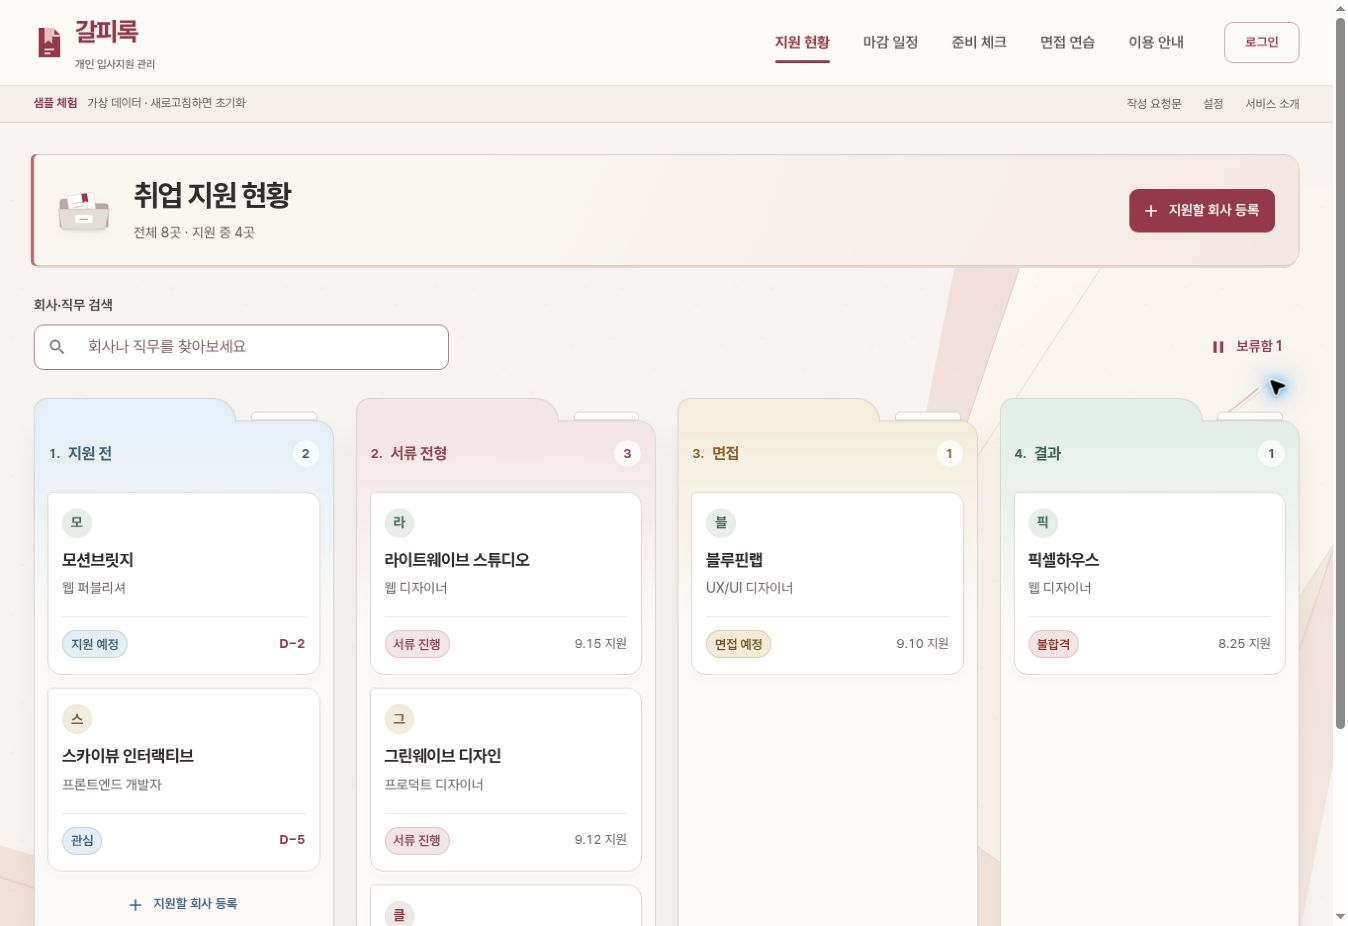
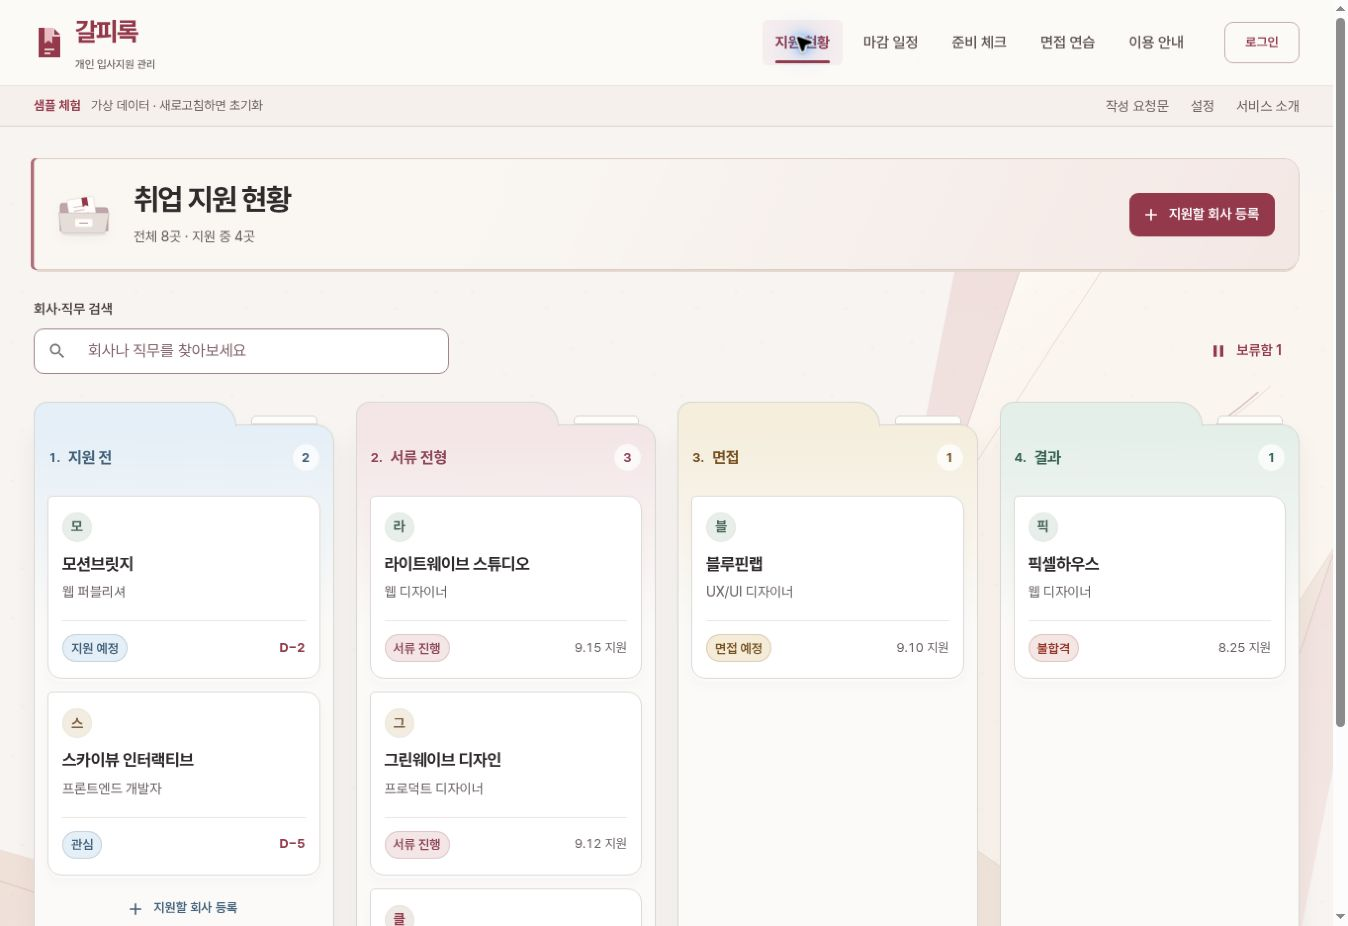
Refresh Galpirok portfolio captures after visual polish

diff --git a/projects/jobflow-dashboard/README.md b/projects/jobflow-dashboard/README.md
@@ -7,7 +7,9 @@
 - 크랜베리·종이색과 기존 시각 자산을 유지합니다. 보조 메뉴 14px, 달력 회사명 13px·건수 12px로 조정하고 면접 분류 글자를 기존 면접 상태 배지와 같은 짙은 앰버로 맞춥니다.
 - PC 오늘 화면의 마감 배너·날짜 티켓과 목록 행 여백을 줄여 실제 기록이 보이는 범위를 넓힙니다. 장식과 대표 비주얼은 유지합니다.
 - 준비 체크의 분류 선택 칸을 148px로 넓히고 미등록 분류는 ‘등록 없음’으로 표시합니다. 모바일에는 분류명·건수의 위아래 배치, 좁은 폭의 두 열 필터 및 별도 추가 버튼 행을 적용합니다.
-- 코드 lint 오류 0(기존 Fast Refresh 경고 1), production build 성공(기존 큰 번들 경고). 배포 화면 검증 결과는 확인 후 기록하며 실제 인증·DB 저장·모바일 뷰포트 검증과 구분합니다.
+- 코드 lint 오류 0(기존 Fast Refresh 경고 1), production build 성공(기존 큰 번들 경고). 고정 텍스트/배경 11쌍의 계산 대비는 5.31:1~8.08:1이며 전체 접근성 인증은 아닙니다. 면접 분류는 4.60:1에서 5.91:1로 개선했습니다.
+- `17420d1` 공개 배포를 Chrome CSS viewport 1363×936에서 확인했습니다. 오늘 배너의 실제 높이 약 324→288px, 목록 행 80px, 지원 회사·준비 각 3항목의 첫 화면 노출, 보조 메뉴 14px, 달력 회사명 13px·건수 12px, 분류 선택 칸 148px와 ‘포트폴리오’ 전체 표시를 확인했습니다. 미등록 분류에 임시 할 일을 등록해 ‘등록 없음’→‘0 / 1’ 전환을 확인하고 삭제 조작·새로고침으로 샘플을 복원했습니다.
+- 날짜 선택과 상세 목록 연결, 로고·상단 메뉴 이동, 폰트 로드와 점검 화면 가로 넘침 없음, 로그인 이메일 입력 16px/줄 높이 24px/높이 50px를 확인했습니다. 실제 계정 생성·인증·DB 저장 및 모바일 실제 뷰포트 검증은 미완료입니다. 이번에는 새 계정이나 비밀번호를 만들지 않았습니다.
 
 ## 서비스 목적과 상단 메뉴 개편 (2026-10-07)
 

diff --git a/projects/my-portfolio/README.md b/projects/my-portfolio/README.md
@@ -131,4 +131,4 @@ npm run build
 
 이전 갱신의 갈피록 캡처 출처(2026-10-07): 직접 운영하는 공개 GitHub Pages의 가상 샘플 화면입니다. overview는 `b3b4e91` 배포에서 1363×936px, board/checklist는 `ab744ab` 배포에서 각각 1348×926px JPEG 원본을 저장했습니다. 확대·재생성하지 않았고 실제 저장된 픽셀 비율로 표시합니다. 다른 제작자의 화면이나 이미지를 옮겨 쓰지 않았습니다.
 
-현행 캡처(2026-10-07): `97cd7f5`의 welcome/overview/board/checklist를 직접 브라우저 캡처했습니다. 모두 실제 JPEG 1348×926px이며 확대·이미지 생성·텍스트 교체 없이 저장했습니다. CSS viewport 1363×936과 저장된 픽셀 크기는 구분합니다.
+현행 캡처(2026-10-07): 글자 크기·면접 단계 대비·배너 높이·미등록 상태를 다듬은 `17420d1`의 welcome/overview/board/checklist를 직접 브라우저 캡처했습니다. 모두 실제 JPEG 1348×926px이며 확대·이미지 생성·텍스트 교체 없이 저장했습니다. CSS viewport 1363×936과 저장된 픽셀 크기는 구분합니다.
